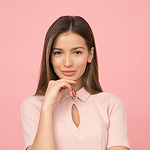
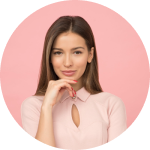
3. Quote

diff --git a/html_advanced/index.html b/html_advanced/index.html
@@ -64,6 +64,16 @@
           </div>
         </div>
       </section>
+      <section>
+        <div>
+          <img src="images/avatar_quote.png" alt="avatar quote">
+          <div>
+            <q>Those tutorials are concise and go straight to the point. I can't think of a better place to learn smiling. And it's so fun!</q>
+            <p>Person Name</p>
+            <p>weather presenter</p>
+          </div>
+        </div>
+      </section>
     </main>
   </body>
 </html>
